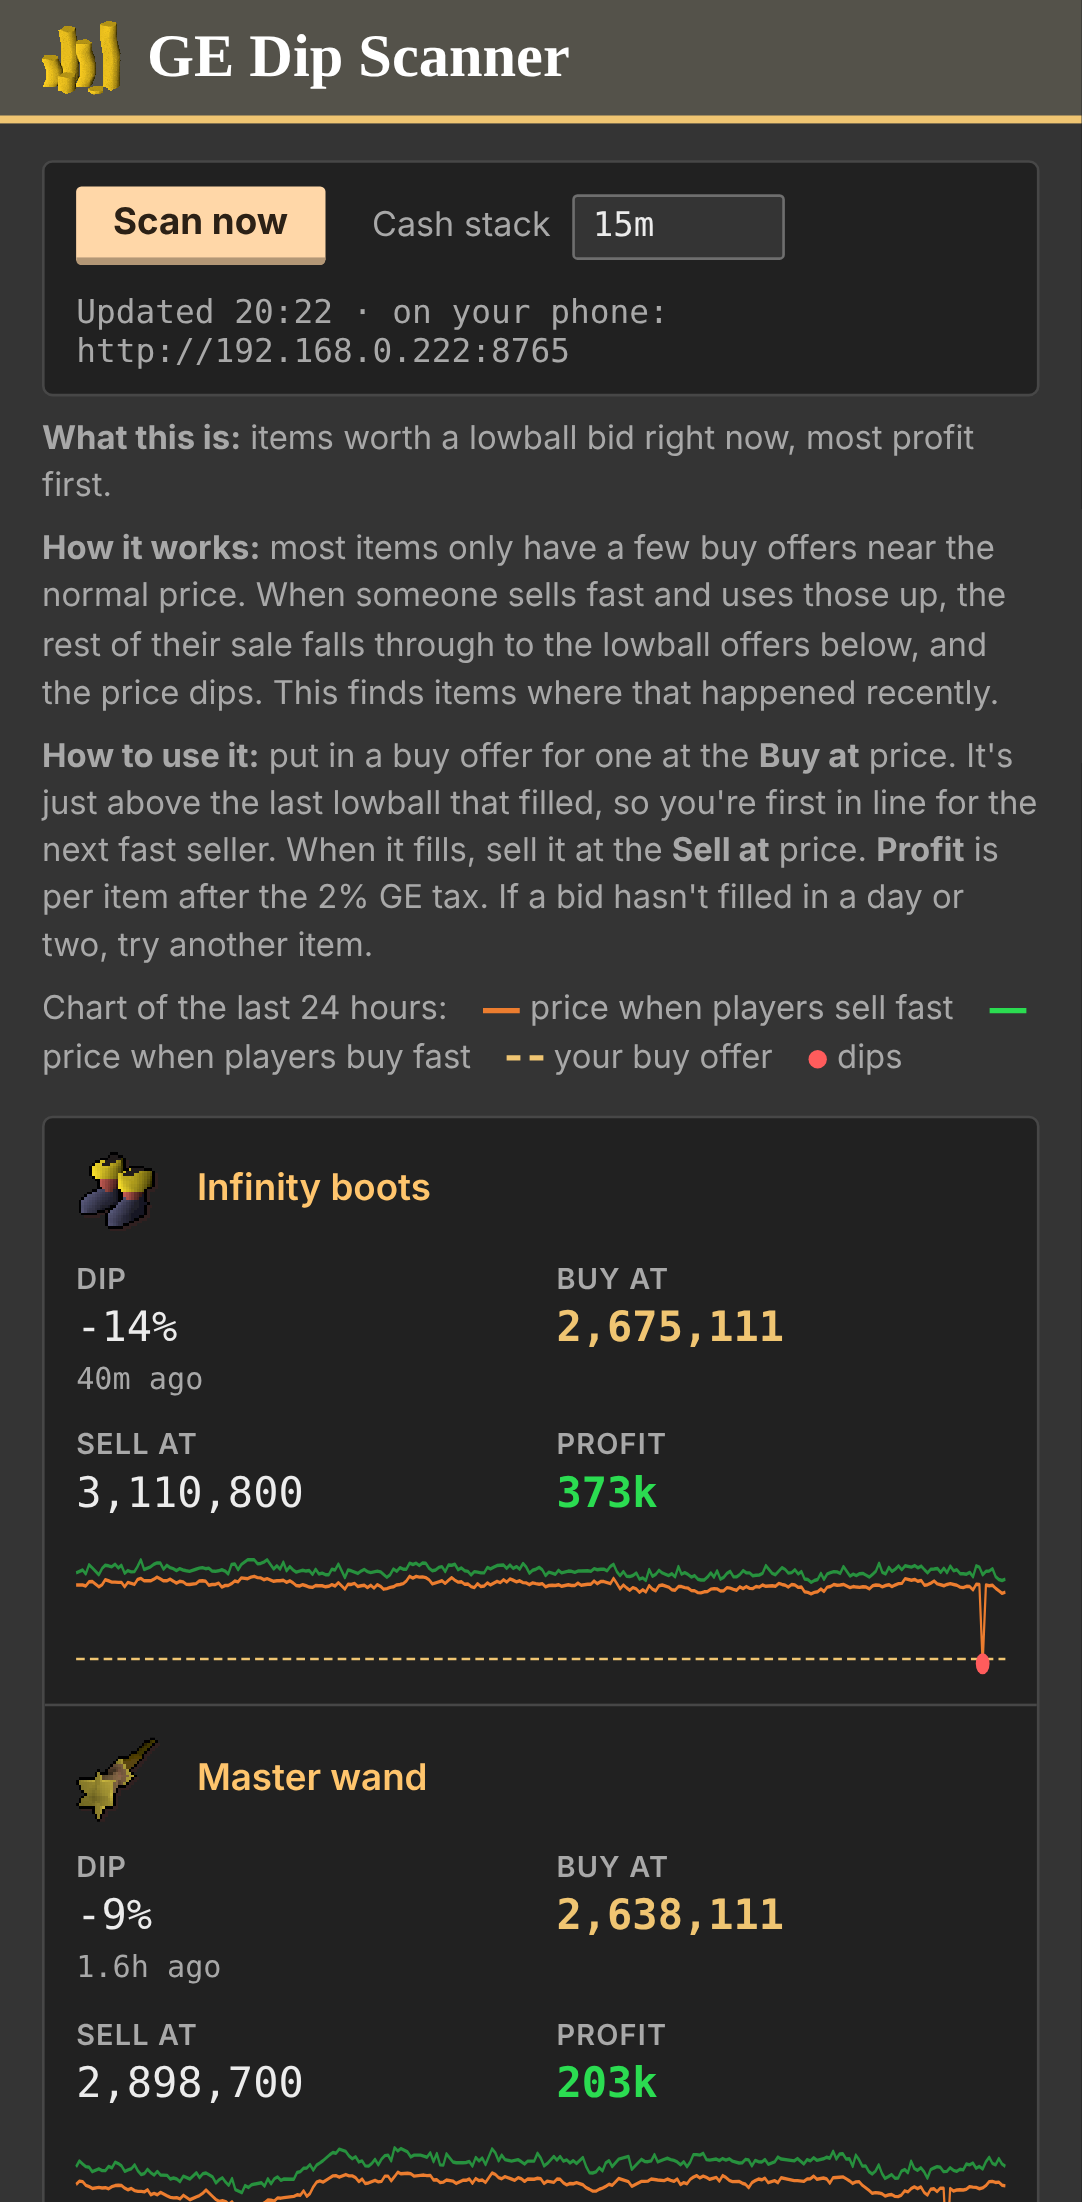
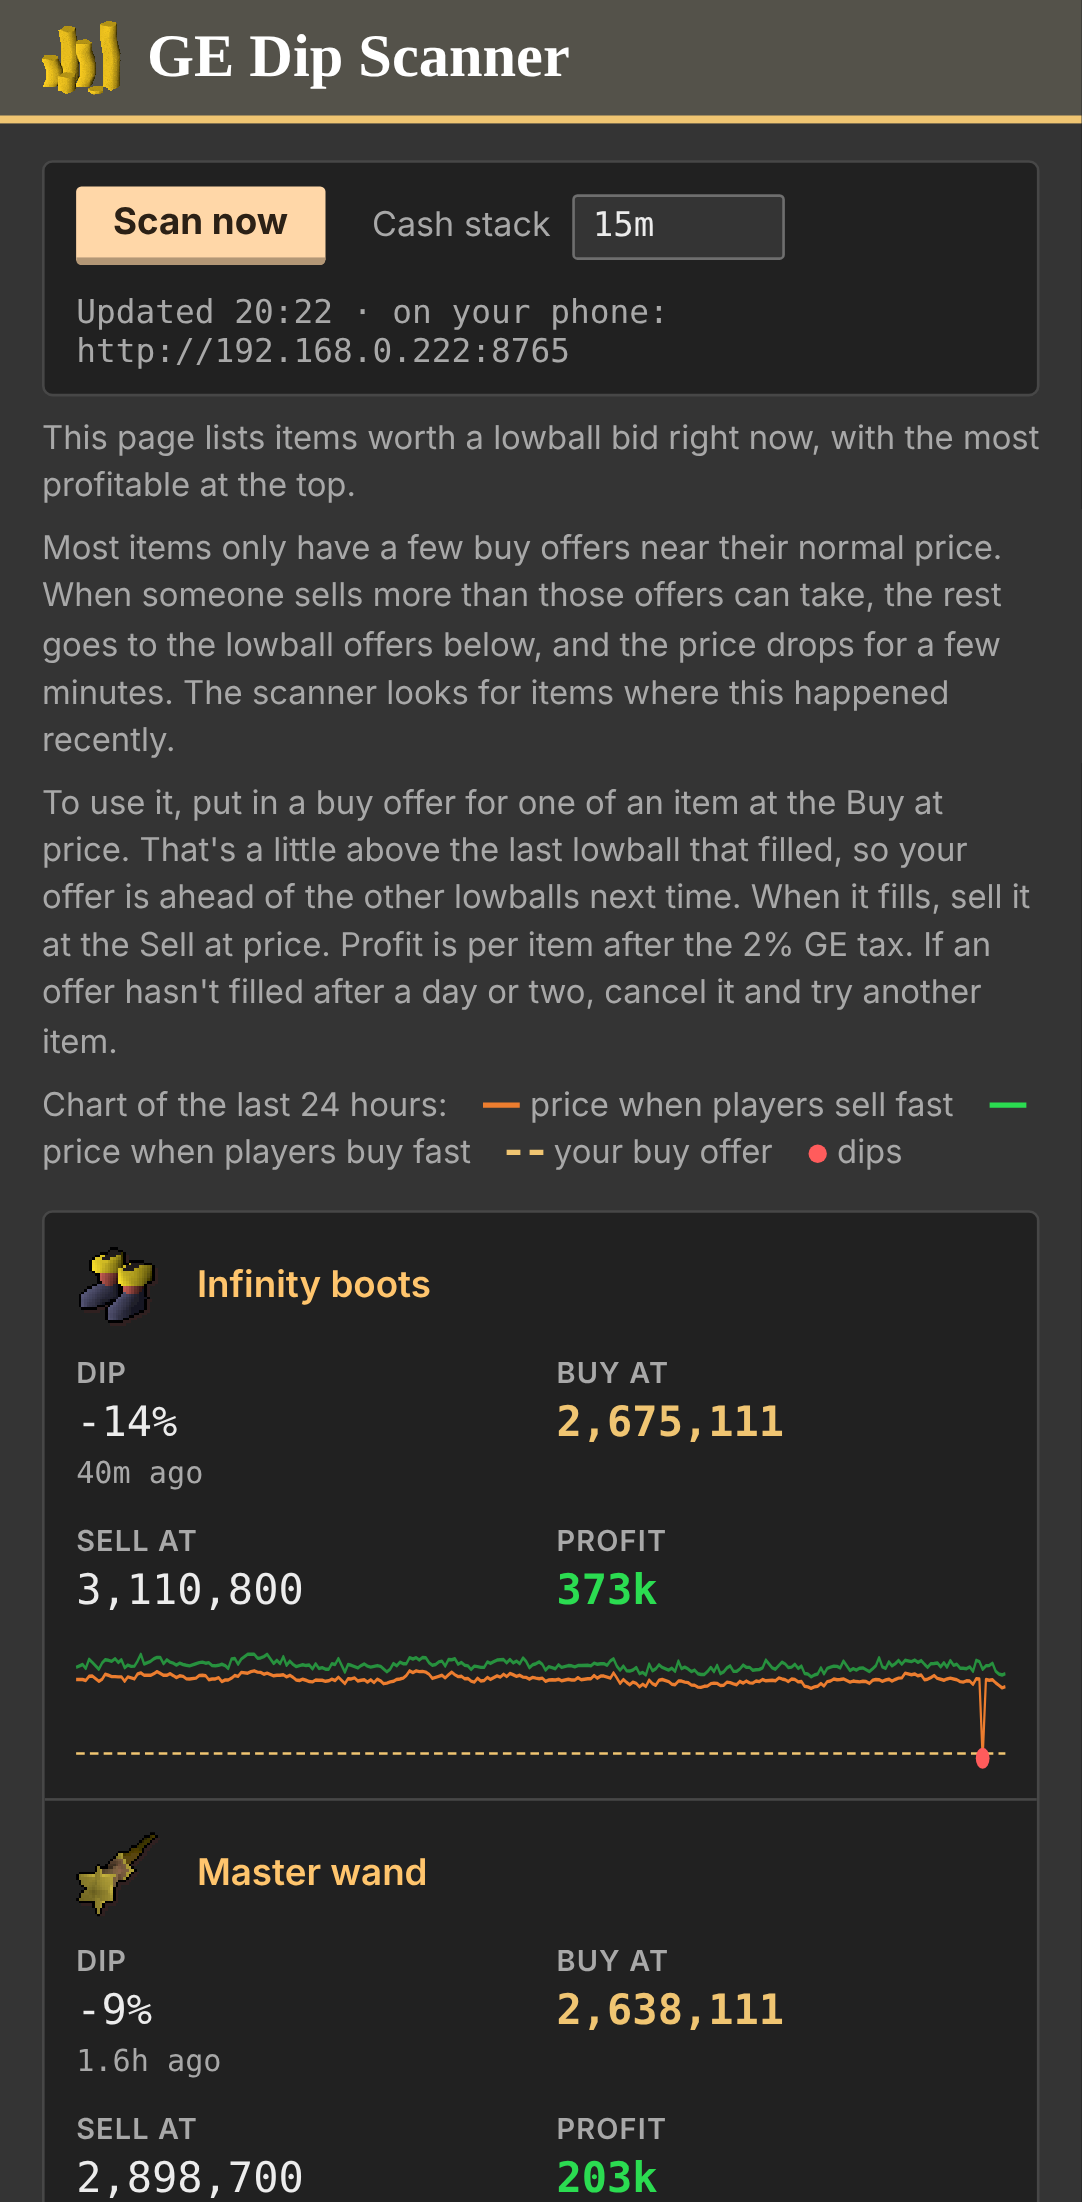
Plainer wording on the page and README

Changed region(s): [[0.0305, 0.1853, 0.9455, 1.0], [0.3965, 0.8338, 0.915, 1.0], [0.366, 0.9573, 0.3965, 0.9882]]

diff --git a/dip_scanner.py b/dip_scanner.py
@@ -704,14 +704,14 @@ th.num {{ text-align:right }}
 <main>
 {toolbar}
 <div class="legend">
-<p><b>What this is:</b> items worth a lowball bid right now, most profit first.</p>
-<p><b>How it works:</b> most items only have a few buy offers near the normal price. When someone
-sells fast and uses those up, the rest of their sale falls through to the lowball offers below, and
-the price dips. This finds items where that happened recently.</p>
-<p><b>How to use it:</b> put in a buy offer for one at the <b>Buy at</b> price. It's just above the
-last lowball that filled, so you're first in line for the next fast seller. When it fills, sell it
-at the <b>Sell at</b> price. <b>Profit</b> is per item after the 2% GE tax. If a bid hasn't filled
-in a day or two, try another item.</p>
+<p>This page lists items worth a lowball bid right now, with the most profitable at the top.</p>
+<p>Most items only have a few buy offers near their normal price. When someone sells more than those
+offers can take, the rest goes to the lowball offers below, and the price drops for a few minutes.
+The scanner looks for items where this happened recently.</p>
+<p>To use it, put in a buy offer for one of an item at the Buy at price. That's a little above the
+last lowball that filled, so your offer is ahead of the other lowballs next time. When it fills,
+sell it at the Sell at price. Profit is per item after the 2% GE tax. If an offer hasn't filled
+after a day or two, cancel it and try another item.</p>
 <p>Chart of the last 24 hours: <i style="background:var(--sell)"></i>price when players sell fast
 <i style="background:var(--buy)"></i>price when players buy fast <i style="border-top:2px dashed var(--gold)"></i>your buy offer
 <i class="dot"></i>dips</p>

diff --git a/README.md b/README.md
@@ -1,30 +1,26 @@
 # OSRS GE Dip Scanner
 
-A small program that finds Grand Exchange items you can buy cheap and sell for a profit. I made it
-for my own flipping.
+This lists Grand Exchange items worth a lowball bid right now, with the most profitable at the top.
+I made it for my own flipping.
 
 ![The scanner page](docs/desktop.png)
 
 ## How it works
 
-Most items only have a few buy offers near the normal price. When someone sells fast and uses those
-up, the rest of their sale falls through to the lowball offers below, and the price dips.
+Most items only have a few buy offers near their normal price. When someone sells more than those
+offers can take, the rest goes to the lowball offers below, and the price drops for a few minutes.
 
-The scanner checks the busiest items in your price range for dips in the last day, and suggests a
-bid just above the last lowball that filled. That puts your offer first in line for the next fast
-seller. For each item it shows:
-
-- **Dip**: how far the price fell last time, and when.
-- **Buy at**: your bid.
-- **Sell at**: roughly what it sells for normally.
-- **Profit**: what you make on one item after the 2% GE tax.
+The scanner checks the busiest items in your price range and lists the ones where this happened in
+the last day. Dip is how far the price fell last time and how long ago. Buy at is a little above the
+last lowball that filled, so your offer is ahead of the other lowballs next time. Sell at is roughly
+what the item normally sells for. Profit is per item after the 2% GE tax.
 
 ## How to use it
 
-1. Put in a buy offer for one of an item at its **Buy at** price.
+1. Put in a buy offer for one of an item at the Buy at price.
 2. Wait. It can take a few hours or a day.
-3. When it fills, sell it at the **Sell at** price.
-4. If it hasn't filled in a day or two, cancel it and try another item on the list.
+3. When it fills, sell it at the Sell at price.
+4. If it hasn't filled after a day or two, cancel it and try another item.
 
 ## Setup (Windows, once)
 
